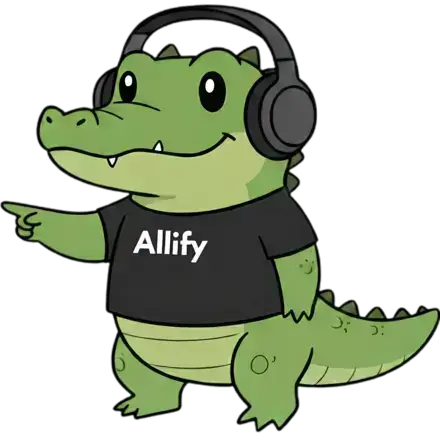
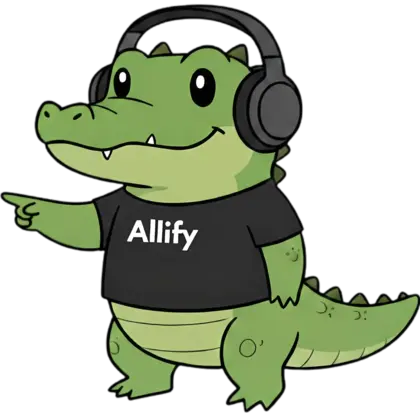
feat: Adjustments to Alli images / Format

Changed region(s): [[0.7738, 0.681, 0.8048, 0.7119], [0.681, 0.7119, 0.7119, 0.7429]]

diff --git a/src/lib/components/general/AddTicketsModal.svelte b/src/lib/components/general/AddTicketsModal.svelte
@@ -59,12 +59,8 @@
 			</button>
 
 			<div class="flex flex-col gap-1.5 pr-8">
-				<p class="text-xs font-medium tracking-widest text-t-secondary uppercase">
-					Allify Tickets
-				</p>
-				<p class="text-xl font-bold text-t-primary">
-					Adquirir tickets
-				</p>
+				<p class="text-xs font-medium tracking-widest text-t-secondary uppercase">Allify Tickets</p>
+				<p class="text-xl font-bold text-t-primary">Adquirir tickets</p>
 				<p class="text-sm leading-relaxed text-t-secondary">
 					Parece que seus tickets acabaram. Adquira mais para continuar aproveitando os recursos.
 				</p>
@@ -73,17 +69,15 @@
 
 		<div class="flex flex-col gap-5 px-6 py-5">
 			<div class="flex flex-col gap-3">
-				<p class="text-xs font-medium tracking-widest text-t-secondary uppercase">
-					Quantidade
-				</p>
+				<p class="text-xs font-medium tracking-widest text-t-secondary uppercase">Quantidade</p>
 
 				<div class="grid grid-cols-4 gap-2">
 					{#each options as opt}
 						<button
-							class="rounded-xl border py-3 text-sm font-semibold transition cursor-pointer
+							class="cursor-pointer rounded-xl border py-3 text-sm font-semibold transition
 								{quantity === opt
-									? 'border-brand-primary bg-brand-primary text-t-inverse'
-									: 'border-b-default bg-s-muted text-t-primary hover:border-brand-primary hover:text-brand-primary'}"
+								? 'border-brand-primary bg-brand-primary text-t-inverse'
+								: 'border-b-default bg-s-muted text-t-primary hover:border-brand-primary hover:text-brand-primary'}"
 							on:click={() => (quantity = opt)}
 						>
 							{opt}
@@ -94,10 +88,10 @@
 						type="number"
 						min="1"
 						placeholder="Escolha você mesmo"
-						class="col-span-4 mt-1 rounded-xl border px-4 py-3 text-sm font-semibold transition bg-s-muted text-t-primary placeholder:text-t-muted outline-none
+						class="col-span-4 mt-1 rounded-xl border bg-s-muted px-4 py-3 text-sm font-semibold text-t-primary transition outline-none placeholder:text-t-muted
 							{!options.includes(quantity)
-								? 'border-brand-primary'
-								: 'border-b-default focus:border-brand-primary'}"
+							? 'border-brand-primary'
+							: 'border-b-default focus:border-brand-primary'}"
 						on:input={(e) => {
 							const val = parseInt(e.currentTarget.value);
 							if (!isNaN(val) && val >= 1) quantity = val;
@@ -110,7 +104,8 @@
 				<span
 					class="inline-flex shrink-0 items-center rounded-md bg-brand-primary px-3 py-1 text-[11px] font-medium text-t-inverse"
 				>
-					{quantity} {quantity === 1 ? 'ticket' : 'tickets'}
+					{quantity}
+					{quantity === 1 ? 'ticket' : 'tickets'}
 				</span>
 				<span class="text-xs text-t-muted">•</span>
 				<span class="text-xs text-t-secondary">
@@ -119,7 +114,7 @@
 			</div>
 
 			<button
-				class="w-full rounded-xl bg-brand-primary px-4 py-3 cursor-pointer text-sm font-semibold text-t-inverse transition hover:opacity-90 active:scale-95"
+				class="w-full cursor-pointer rounded-xl bg-brand-primary px-4 py-3 text-sm font-semibold text-t-inverse transition hover:opacity-90 active:scale-95"
 				on:click={handleCheckout}
 			>
 				Ir para o checkout

diff --git a/src/lib/components/home-page/HeroSection.svelte b/src/lib/components/home-page/HeroSection.svelte
@@ -1,7 +1,7 @@
 <script lang="ts">
 	// Assets
-	import AlliFullBodyPointing from '$lib/assets/images/alli/alli-full-body-pointing.webp?enhanced';
-	import AlliFullBodyPointingDownwards from '$lib/assets/images/alli/alli-full-body-pointing-downwards.webp?enhanced';
+	import AlliFullBodyPointing from '$lib/assets/images/alli/alli-full-body-pointing.webp';
+	import AlliFullBodyPointingDownwards from '$lib/assets/images/alli/alli-full-body-pointing-downwards.webp';
 
 	// Stores
 	import { translationsStore } from '$lib/stores/translations.store';
@@ -21,19 +21,14 @@
 			{$translationsStore.homePage.homePageHeroSectionParagraph1}
 		</p>
 
-		<picture class="lg:hidden">
-			<enhanced:img
-				src={AlliFullBodyPointingDownwards}
-				alt={$translationsStore.homePage.alliMascotPointingDownwardsAltText}
-				class="h-auto w-56"
-				width="224"
-				height="224"
-				loading="eager"
-				fetchpriority="high"
-				decoding="sync"
-				sizes="224px"
-			/>
-		</picture>
+		<img
+			src={AlliFullBodyPointingDownwards}
+			alt={$translationsStore.homePage.alliMascotPointingDownwardsAltText}
+			class="block h-auto w-56 lg:hidden"
+			loading="eager"
+			fetchpriority="high"
+			decoding="sync"
+		/>
 
 		<a
 			class="mt-6 w-full cursor-pointer rounded-lg bg-brand-primary py-5 text-center text-sm font-medium text-t-inverse shadow-md transition-all hover:scale-105 hover:bg-brand-primary-dark lg:w-90 lg:max-w-90"
@@ -48,17 +43,12 @@
 		</a>
 	</div>
 
-	<picture class="hidden lg:block">
-		<enhanced:img
-			src={AlliFullBodyPointing}
-			alt={$translationsStore.homePage.alliMascotPointingToLeftAltText}
-			class="mr-2 h-auto w-105 md:mr-5 2xl:mr-10"
-			width="380"
-			height="380"
-			loading="eager"
-			fetchpriority="high"
-			decoding="sync"
-			sizes="(min-width: 1024px) 380px, 0px"
-		/>
-	</picture>
+	<img
+		src={AlliFullBodyPointing}
+		alt={$translationsStore.homePage.alliMascotPointingToLeftAltText}
+		class="mr-2 h-auto w-80 hidden lg:block md:mr-5 2xl:mr-10 2xl:w-105"
+		loading="eager"
+		fetchpriority="high"
+		decoding="sync"
+	/>
 </section>

diff --git a/src/routes/discoveries/+page.svelte b/src/routes/discoveries/+page.svelte
@@ -3,7 +3,7 @@
 	import { page } from '$app/stores';
 
 	// Assets
-	import AlliFullBodyWaving from '$lib/assets/images/alli/alli-full-body-waving.webp?enhanced';
+	import AlliFullBodyWaving from '$lib/assets/images/alli/alli-full-body-waving.webp';
 	import DotsLoading from '$lib/assets/images/animations/DotsLoading.svelte';
 	import TicketIcon from '$lib/assets/images/icons/TicketIcon.webp';
 
@@ -140,7 +140,7 @@
 						{$translationsStore.discoveriesPage.discoveriesPageDiscoverNowButton}
 					{:else}
 						<div
-							class="flex w-full flex-col items-center justify-center gap-2 text-center sm:flex-row sm:gap-3 sm:text-left"
+							class="flex w-full flex-row items-center justify-center gap-2 text-center sm:gap-3 sm:text-left"
 						>
 							<span class="text-sm">
 								{$translationsStore.discoveriesPage.discoveriesPageDiscoverAgainButton}
@@ -162,16 +162,13 @@
 				</button>
 			</div>
 
-			<enhanced:img
+			<img
 				src={AlliFullBodyWaving}
 				alt={$translationsStore.discoveriesPage.alliMascotWavingAltText}
-				class="mx-auto mt-5 h-auto w-44 sm:w-60 md:w-72 lg:mt-0 lg:w-85 xl:w-95"
-				width="380"
-				height="380"
+				class="mx-auto mt-5 h-auto w-40 sm:w-56 lg:mt-0 lg:w-85 xl:w-95"
 				loading="eager"
 				fetchpriority="high"
 				decoding="sync"
-				sizes="(min-width: 1280px) 380px, (min-width: 1024px) 320px, (min-width: 768px) 260px, 180px"
 			/>
 		</div>
 	</section>

diff --git a/src/routes/api/mongodb/add-ticket/+server.ts b/src/routes/api/mongodb/add-ticket/+server.ts
@@ -14,7 +14,7 @@ export const POST: RequestHandler = async ({ request }) => {
 		return new Response(JSON.stringify({ error: true }), { status: 400 });
 	}
 
-    console.log(`Adding ${tickets} tickets for ${email}`);
+	console.log(`Adding ${tickets} tickets for ${email}`);
 
 	try {
 		const client = await connectDB();
